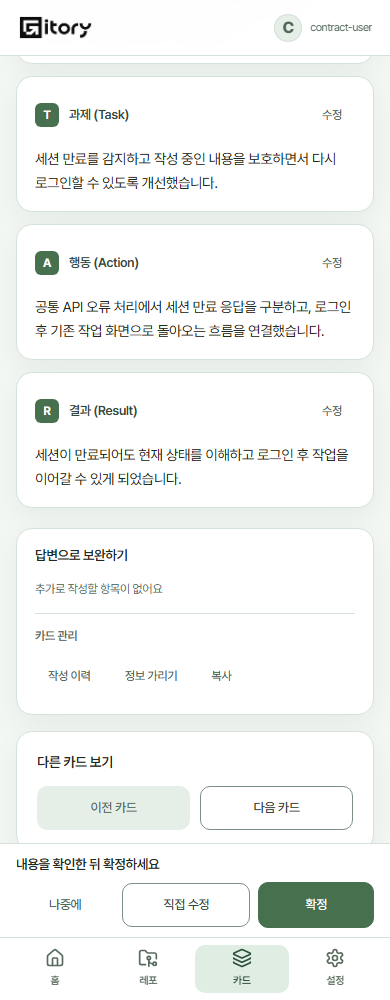
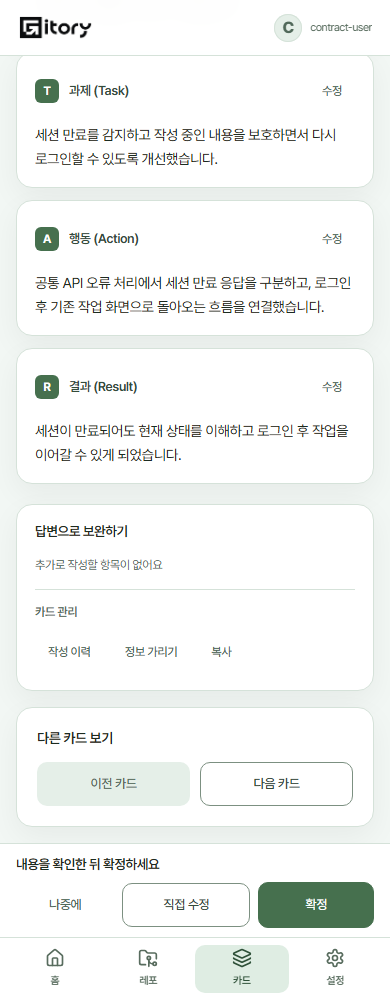
fix(fe): keep mobile card navigation above the action row

diff --git a/frontend/e2e/card-review-navigation.spec.ts b/frontend/e2e/card-review-navigation.spec.ts
@@ -1,5 +1,17 @@
 import { test, expect } from '@playwright/test';
 import { loginAsDemo } from './helpers';
+for (const width of [320, 390])
+  test(`draft navigation clears the bottom action row at ${width}px`, async ({ page }) => {
+    await page.setViewportSize({ width, height: 844 });
+    await loginAsDemo(page);
+    await page.goto('/cards/card_01');
+    const panel = page.getByRole('region', { name: '다른 카드 보기' });
+    await expect(panel).toBeVisible();
+    await page.evaluate(() => window.scrollTo(0, document.documentElement.scrollHeight));
+    const nav = await panel.boundingBox();
+    const footer = await page.locator('.sticky-footer').boundingBox();
+    expect(footer!.y - (nav!.y + nav!.height)).toBeGreaterThanOrEqual(16);
+  });
 for (const width of [320, 390, 1440])
   test(`card review navigation follows title order and fits ${width}px`, async ({
     page,

diff --git a/frontend/src/features/cards/CardReviewFlow.css b/frontend/src/features/cards/CardReviewFlow.css
@@ -39,6 +39,10 @@
   min-height: 44px;
 }
 @media (max-width: 767px) {
+  .main--footer .card-review-aside {
+    /* Offset the mobile footer's negative bottom margin without changing the app shell. */
+    margin-bottom: var(--main-pb);
+  }
   .draft-progress {
     padding: 20px;
   }

diff --git a/frontend/docs/2026-10-20-CARD_REVIEW_FLOW.md b/frontend/docs/2026-10-20-CARD_REVIEW_FLOW.md
@@ -23,3 +23,9 @@
 | --- | --- | --- |
 | 초안 생성 | ![초안 생성 PC](screenshots/pr-328/draft-progress-1440.png) | ![초안 생성 모바일](screenshots/pr-328/draft-progress-390.png) |
 | 카드 상세 | ![카드 상세 PC](screenshots/pr-328/card-detail-1440.png) | ![카드 상세 모바일 하단](screenshots/pr-328/card-detail-390.png) |
+
+## 리뷰 보완: 모바일 탐색 박스 하단 겹침
+- 320/390px 작성 중 카드의 최하단에서 탐색 박스와 하단 행동 줄의 간격이 -8px임을 회귀 테스트로 재현했다. 기존 검사는 버튼 중심의 hit test여서 박스 끝부분의 겹침을 놓쳤다.
+- 모바일의 `main--footer`는 실제 하단 padding이 0이지만 `--main-pb`는 24px이다. StickyFooter의 음수 margin-bottom과 본문 gap 16px이 만나 8px 겹쳤다.
+- 공통 셸/다른 페이지는 유지하고, 모바일 작성 화면의 `card-review-aside`에 동일한 하단 여백 변수를 적용해 상쇄한다. 결과적으로 탐색 박스와 하단 행동 줄 사이에 16px 간격을 확보한다. PC 정렬과 확정 카드 화면에는 적용하지 않는다.
+- 회귀 검사는 모바일 최하단에서 버튼뿐 아니라 탐색 박스 전체와 행동 줄의 실제 경계 간격을 측정한다.

diff --git a/README.md b/README.md
@@ -1,6 +1,6 @@
 # ktc4-team-05
 
-2026-10-20 #326 초안 진행률·#327 카드 연속 검토와 PC/모바일 화면 캡처는 [카드 UI 검증 기록](frontend/docs/2026-10-20-CARD_REVIEW_FLOW.md#ui-실측-및-리뷰-이미지)에서 확인할 수 있습니다.
+2026-10-20 #326 초안 진행률·#327 카드 연속 검토와 PC/모바일 화면 캡처, 모바일 하단 겹침 리뷰 보완은 [카드 UI 검증 기록](frontend/docs/2026-10-20-CARD_REVIEW_FLOW.md)에서 확인할 수 있습니다.
 
 2026-10-13 후보 선택의 조작 크기·제목/버튼 정렬, 모바일 커밋·단계·근거 표시와 카드 STAR 기준선 개선은 [프론트 UI 점검 기록](frontend/docs/2026-10-13-SELECTION_UI_POLISH.md)에 정리했습니다.
 
